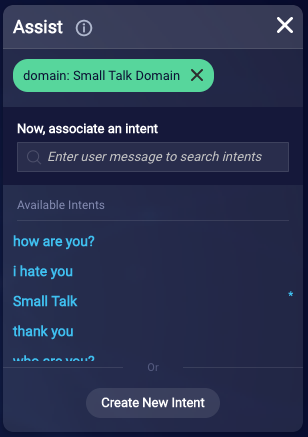
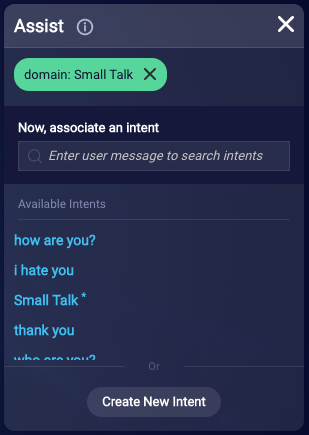
Update image for Dialog Editor 2.0

diff --git a/pages/documents/ConversationalAI/ConversationBuilder/TutorialsAndGuides/MetaIntentsGuide.md b/pages/documents/ConversationalAI/ConversationBuilder/TutorialsAndGuides/MetaIntentsGuide.md
@@ -50,7 +50,7 @@ It is important to note that the intent we are tying to the article, should be o
 
 Let's now tie together everything we’ve done within Conversation Builder. Start by creating a new dialog named “Small Talk”. Using the Assist tool on the Dialog Starter interaction, we want to connect our Small Talk domain as the trigger for this dialog flow. You’ll notice that all of the intents show as options to match our user input; however, we want to make sure that we are selecting the meta intent. Fortunately, meta intents are signified by an asterisk (*) to differentiate them from standard intents.
 
-<img class="fancyimage" style="width:400px" src="img/ConvoBuilder/guideMetaIntents_NLUAssist.png">
+<img class="fancyimage" style="width:300px" src="img/ConvoBuilder/guideMetaIntents_NLUAssist.png">
 
 With this in place, we can continue to build our knowledge base integration as we normally would, creating an integration to make a call to our knowledge base and returning the summary as the article. After tying our integration into the dialog flow, we have now completed the construction of our knowledge base search, outside of our fallback dialog.
 
